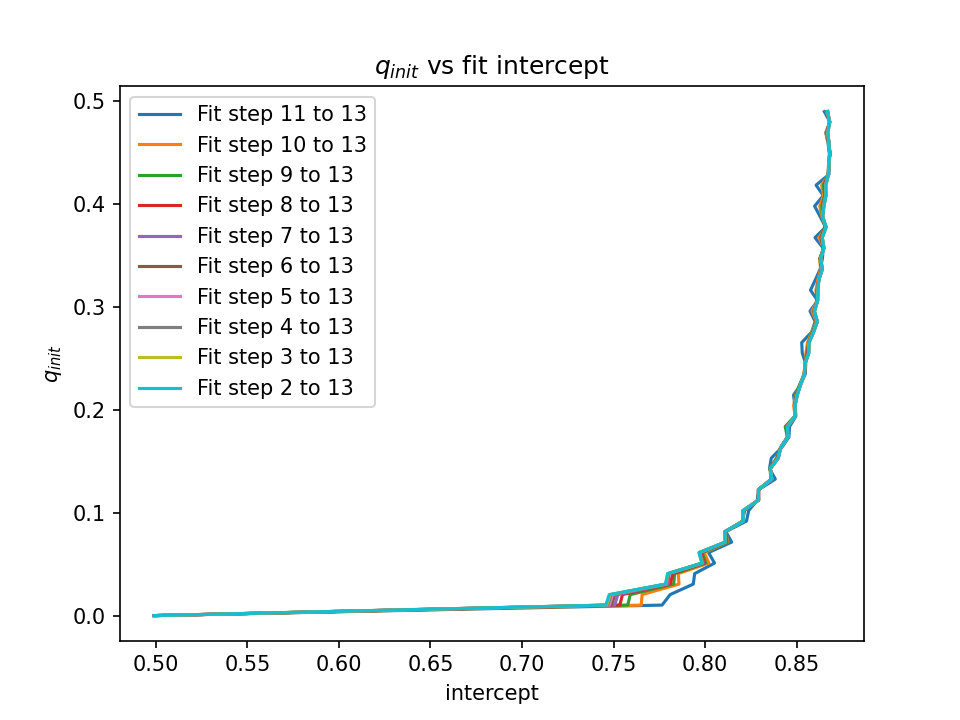
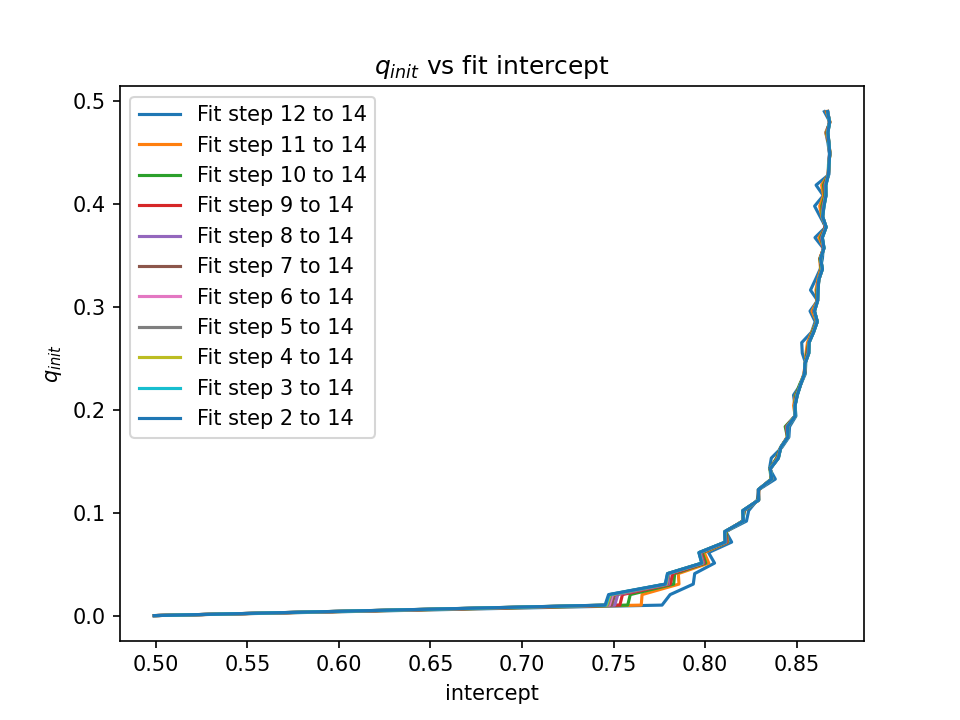
updated plots

diff --git a/analysis/report_plots.py b/analysis/report_plots.py
@@ -39,22 +39,38 @@ def plot_z_fp(ddir=data_dir):
 
     mask = np.logical_and(z_binedges <= 5.0, z_binedges >= -5.0)
     mask2 = np.logical_and(z_bins <= 5.0, z_bins >= -5.0)
-    counts = z_vals[mask2]
-    bins = z_binedges[mask]
-
+    mask3 = np.argwhere(z_vals >= np.percentile(z_vals, 89.6)).ravel()
+    print(mask3[0], mask3[-1])
+    print(mask3.shape)
+    missing = []
+    for i in range(mask3[0], mask3[-1] + 1):
+        if i not in mask3:
+            # print(i)
+            missing.append(i)
+    missing = np.array(missing)
+    indices = np.array(range(mask3[0], mask3[-1] + 1))
+    indices = indices[~np.isin(indices, missing)]
+    indices = np.concatenate([indices, [mask3[0] + 1]])
+    print(indices.size)
+    # print(indices)
+    zbins = z_bins[mask3]
+    counts = z_vals[mask3]
+    bins = z_binedges[indices]
+    print(counts.shape, bins.shape)
+    print(zbins[0], zbins[-1])
     # mean = z_moments["RG_8"]["mean"]
     # std = z_moments["RG_8"]["std"]
     mean, std = hist_moments(counts, bins)
-    plt.figure("fp")
+    plt.figure("fp", figsize=(10, 8))
     plt.plot(
-        z_bins,
-        norm.pdf(z_bins, loc=mean, scale=std),
+        zbins,
+        norm.pdf(zbins, loc=mean, scale=std),
         linestyle="--",
         color="b",
-        alpha=0.6,
+        alpha=1.0,
         label="Gaussian",
     )
-    plt.plot(z_bins, z_densities, color="g", alpha=0.8)
+    # plt.plot(z_bins, z_densities, color="g", alpha=0.8)
     plt.scatter(
         z_bins[::50],
         z_densities[::50],
@@ -62,13 +78,23 @@ def plot_z_fp(ddir=data_dir):
         label="n = 9",
         marker="o",
         facecolor="none",
+        alpha=0.7,
     )
-    plt.xlim((-5.0, 5.0))
-    plt.xlabel(r"$z$")
-    plt.ylabel(r"$P(z)$")
-    # plt.ylim((0, 0.22))
-    plt.legend()
-    plt.savefig("./report/z_FP.pdf")
+    plt.xlim((-4.0, 4.0))
+    plt.xlabel(
+        r"$z$",
+        fontsize=12,
+    )
+    plt.ylabel(
+        r"$P(z)$",
+        fontsize=12,
+    )
+    # plt.ylim((0.15, 0.25))
+    plt.legend(
+        fontsize=12,
+    )
+    plt.tight_layout()
+    plt.savefig("./report/z_FP.pdf", dpi=150)
     plt.close("fp")
 
 
@@ -242,7 +268,7 @@ def plot_z(
         None. Side effects: writes plot to output_dir.
     """
     if sym:
-        output_filename = f"{output_dir}/sym_z_distribution_{version}.png"
+        output_filename = f"{output_dir}/sym_z_distribution_{version}.pdf"
         z_files = f"{z_folder}/sym_z_hist"
         title = "Distribution of Q(z)"
         y_bounds = (0.0, 0.25)
@@ -253,26 +279,73 @@ def plot_z(
         title = f"Distribution of Q(z - {shift})"
         y_bounds = (0.0, 0.25)
         x_bounds = (-5.0 + shift, 5.0 + shift)
-    fig, ax = plt.subplots(figsize=(8, 6))
+    fig, ax = plt.subplots(figsize=(10, 8))
+    print(f"Plotting to {output_filename}")
     ax.set_title(title)
-    ax.set_xlabel("z")
-    ax.set_ylabel("Q(z)")
+    ax.set_xlabel(r"$z$")
+    ax.set_ylabel(r"$Q(z)$")
     ax.set_xlim(x_bounds)
     ax.set_ylim(y_bounds)
-    ax1 = inset_locator.inset_axes(ax, width="30%", height="30%", loc="upper right")
+    ax1 = inset_locator.inset_axes(
+        ax, width="30%", height="30%", loc="upper right", borderpad=0.6
+    )
     ax1.set_xlim((-25.0, 25.0))
-    ax1.tick_params(labelright=True, labelleft=False)
-    for i in range(start_step, end_step):
+    ax1.tick_params(labelright=False, labelleft=True)
+    markers = ["o", ">", "^", "s", "*"]
+    colors = ["b", "r", "g", "m", "k", "y"]
+    j = 0
+    for i in (start_step, 4, end_step):
         z_file = f"{z_files}_RG{i}.npz"
         data = np.load(z_file)
         hist = data["histval"]
         bins = data["binedges"]
         centers = data["bincenters"]
         density = get_density(hist, bins)
-        if i % 2 == 0:
-            ax.scatter(centers[::100], density[::100], label=f"RG step {i}")
-            ax1.plot(centers, density)
-    ax.legend(loc="upper left")
+        # if i % 2 == 0:
+        ax1.plot(centers, density)
+        ax.scatter(
+            centers[::200],
+            density[::200],
+            label=f"RG step {i}",
+            facecolor="none",
+            edgecolors=colors[j],
+            marker=markers[j],
+        )
+        j += 1
+    yticks = np.round(np.linspace(0.0, 0.25, 6), 2)
+    ax1.set_yticks(
+        list(yticks),
+        ["0.0", "0.05", "0.10", "0.15", "0.20", "0.25"],
+        fontsize=12,
+    )
+    ax1.set_xticks(
+        np.round(np.linspace(-25.0, 25.0, 6), 2),
+        [str(x)[:-2] for x in np.round(np.linspace(-25.0, 25.0, 6), 2)],
+        fontsize=12,
+    )
+    ax1.set_ylabel(
+        r"$Q(z)$",
+        fontsize=12,
+    )
+    ax1.set_xlabel(
+        r"$z$",
+        fontsize=12,
+    )
+    ax.minorticks_on()
+    ax1.minorticks_on()
+    ax.set_xticks(
+        np.round(np.linspace(-5.0, 5.0, 11), 2),
+        [str(x)[:-2] for x in np.round(np.linspace(-5.0, 5.0, 11), 2)],
+        fontsize=12,
+    )
+    ax.set_yticks(
+        np.round(np.linspace(0.0, 0.25, 6), 2),
+        ["0.0", "0.05", "0.10", "0.15", "0.20", "0.25"],
+        fontsize=12,
+    )
+    # ax.tight_layout()
+    # ax.legend(loc="upper left")
+    plt.tight_layout()
     plt.savefig(output_filename, dpi=150)
     plt.close(fig)
 
@@ -295,12 +368,12 @@ if __name__ == "__main__":
     exp_plot_dir = f"{ddir}/{version}/EXP"
     t_fp_plot_dir = f"{fp_plot_dir}/input_t"
     z_fp_plot_dir = f"{fp_plot_dir}/sym_z"
-    # output_dir = "../report"
+    output_dir = "./report"
     # os.makedirs(output_dir, exist_ok=True)
     start = 0
     end = num_rg
     # plot_t(t_fp_plot_dir, output_dir, start, end, version)
-    # plot_z(z_fp_plot_dir, output_dir, start, end, True, version)
+    plot_z(z_fp_plot_dir, output_dir, start, end, True, version)
     # for shift in SHIFTS:
     #     z_dir = f"{exp_plot_dir}/shift_{shift}/hist/z"
     #     plot_z(z_dir, output_dir, start, end, False, version, float(shift))
